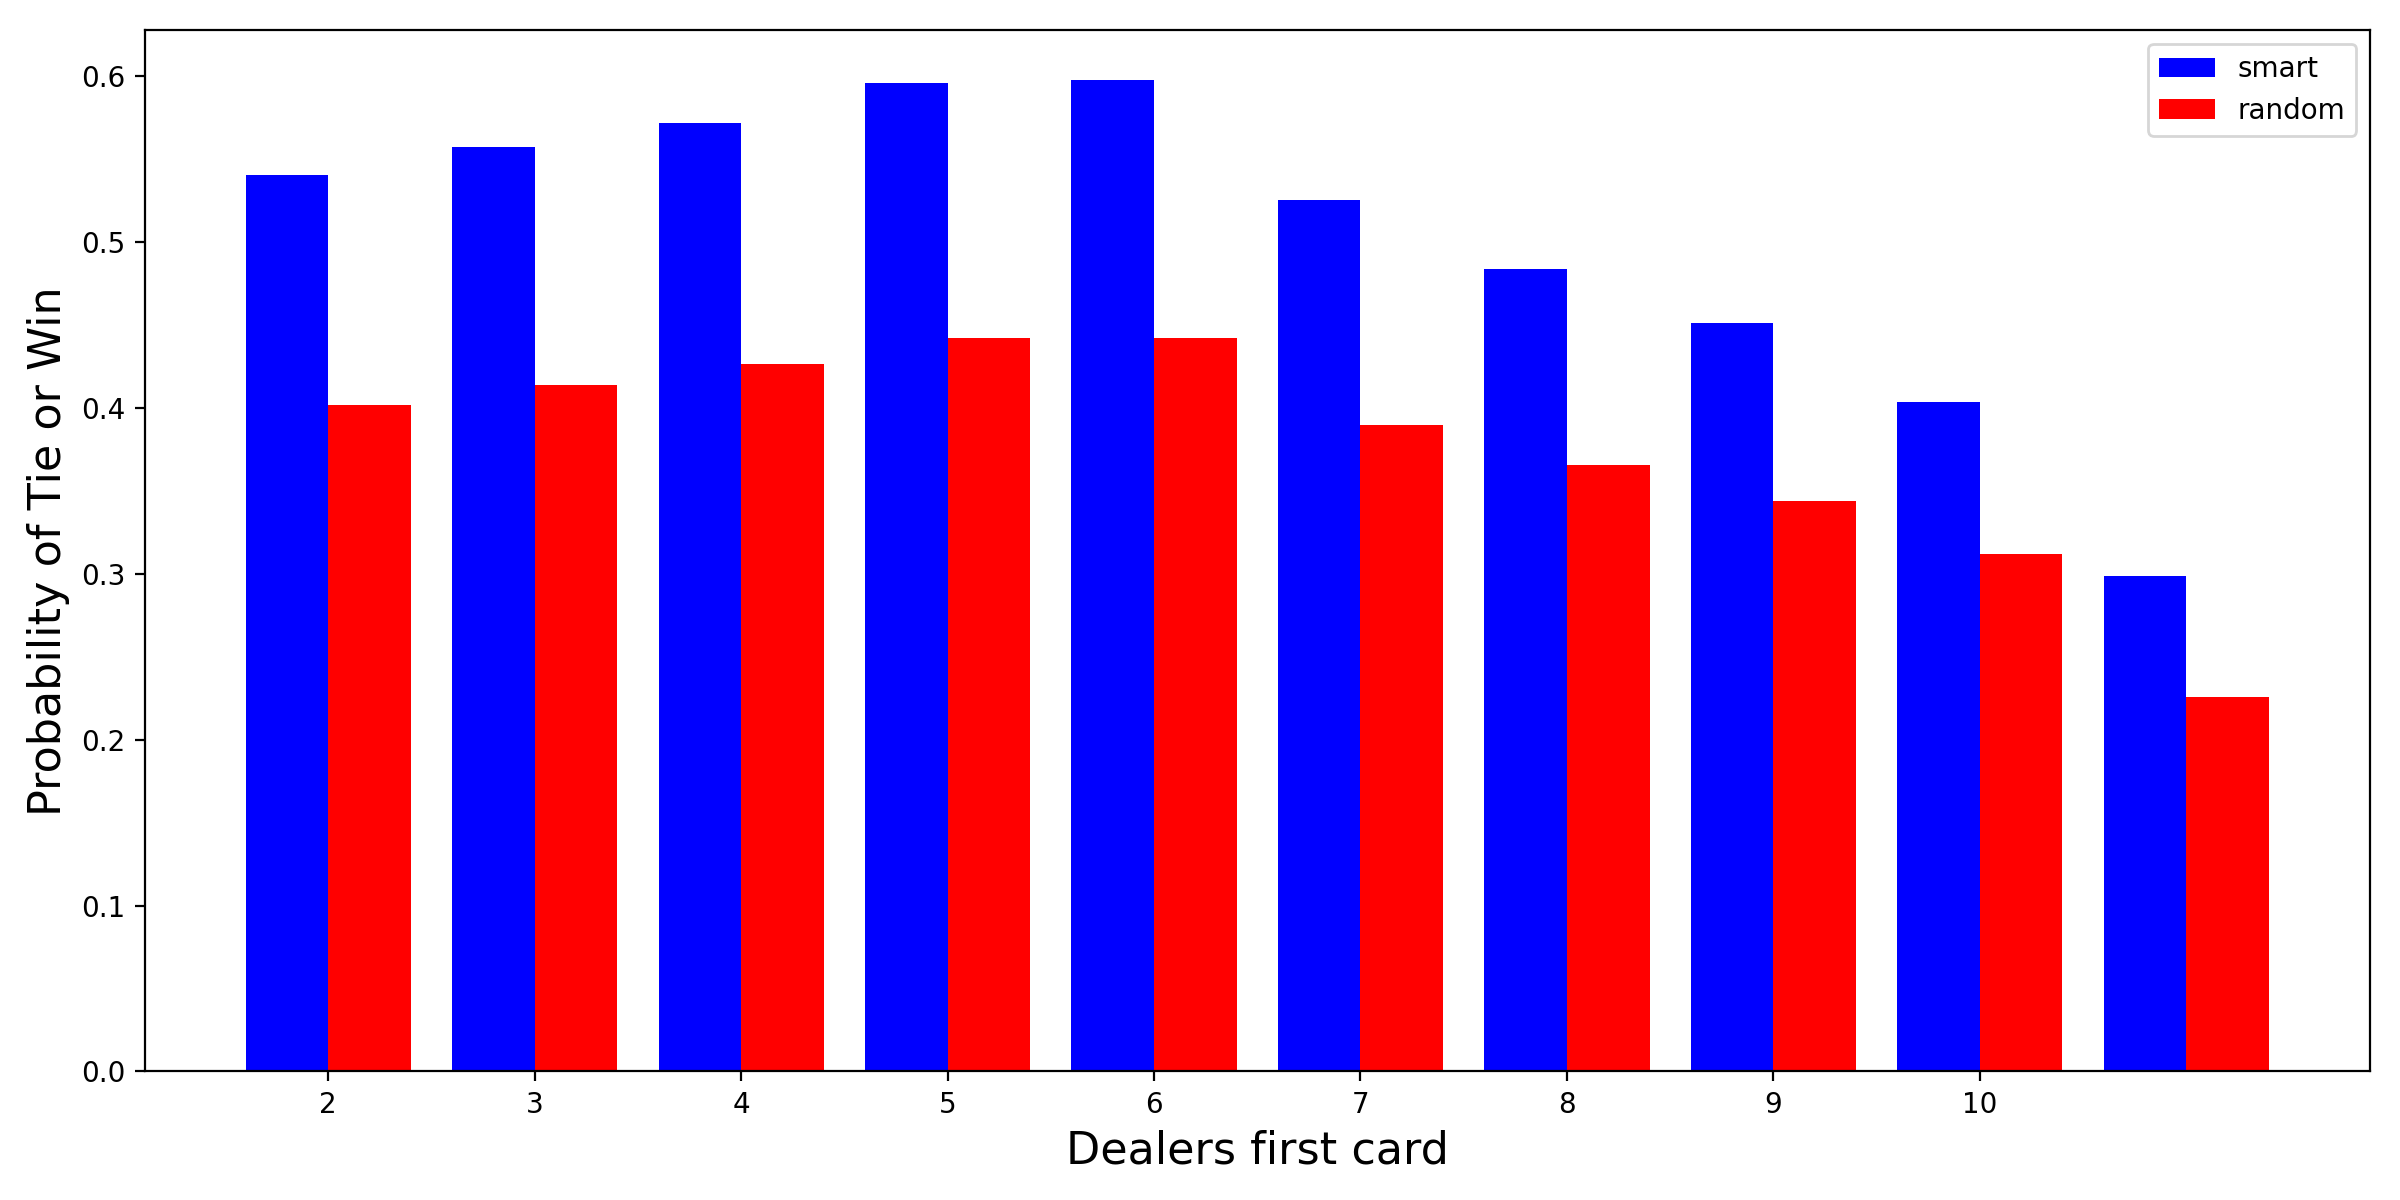
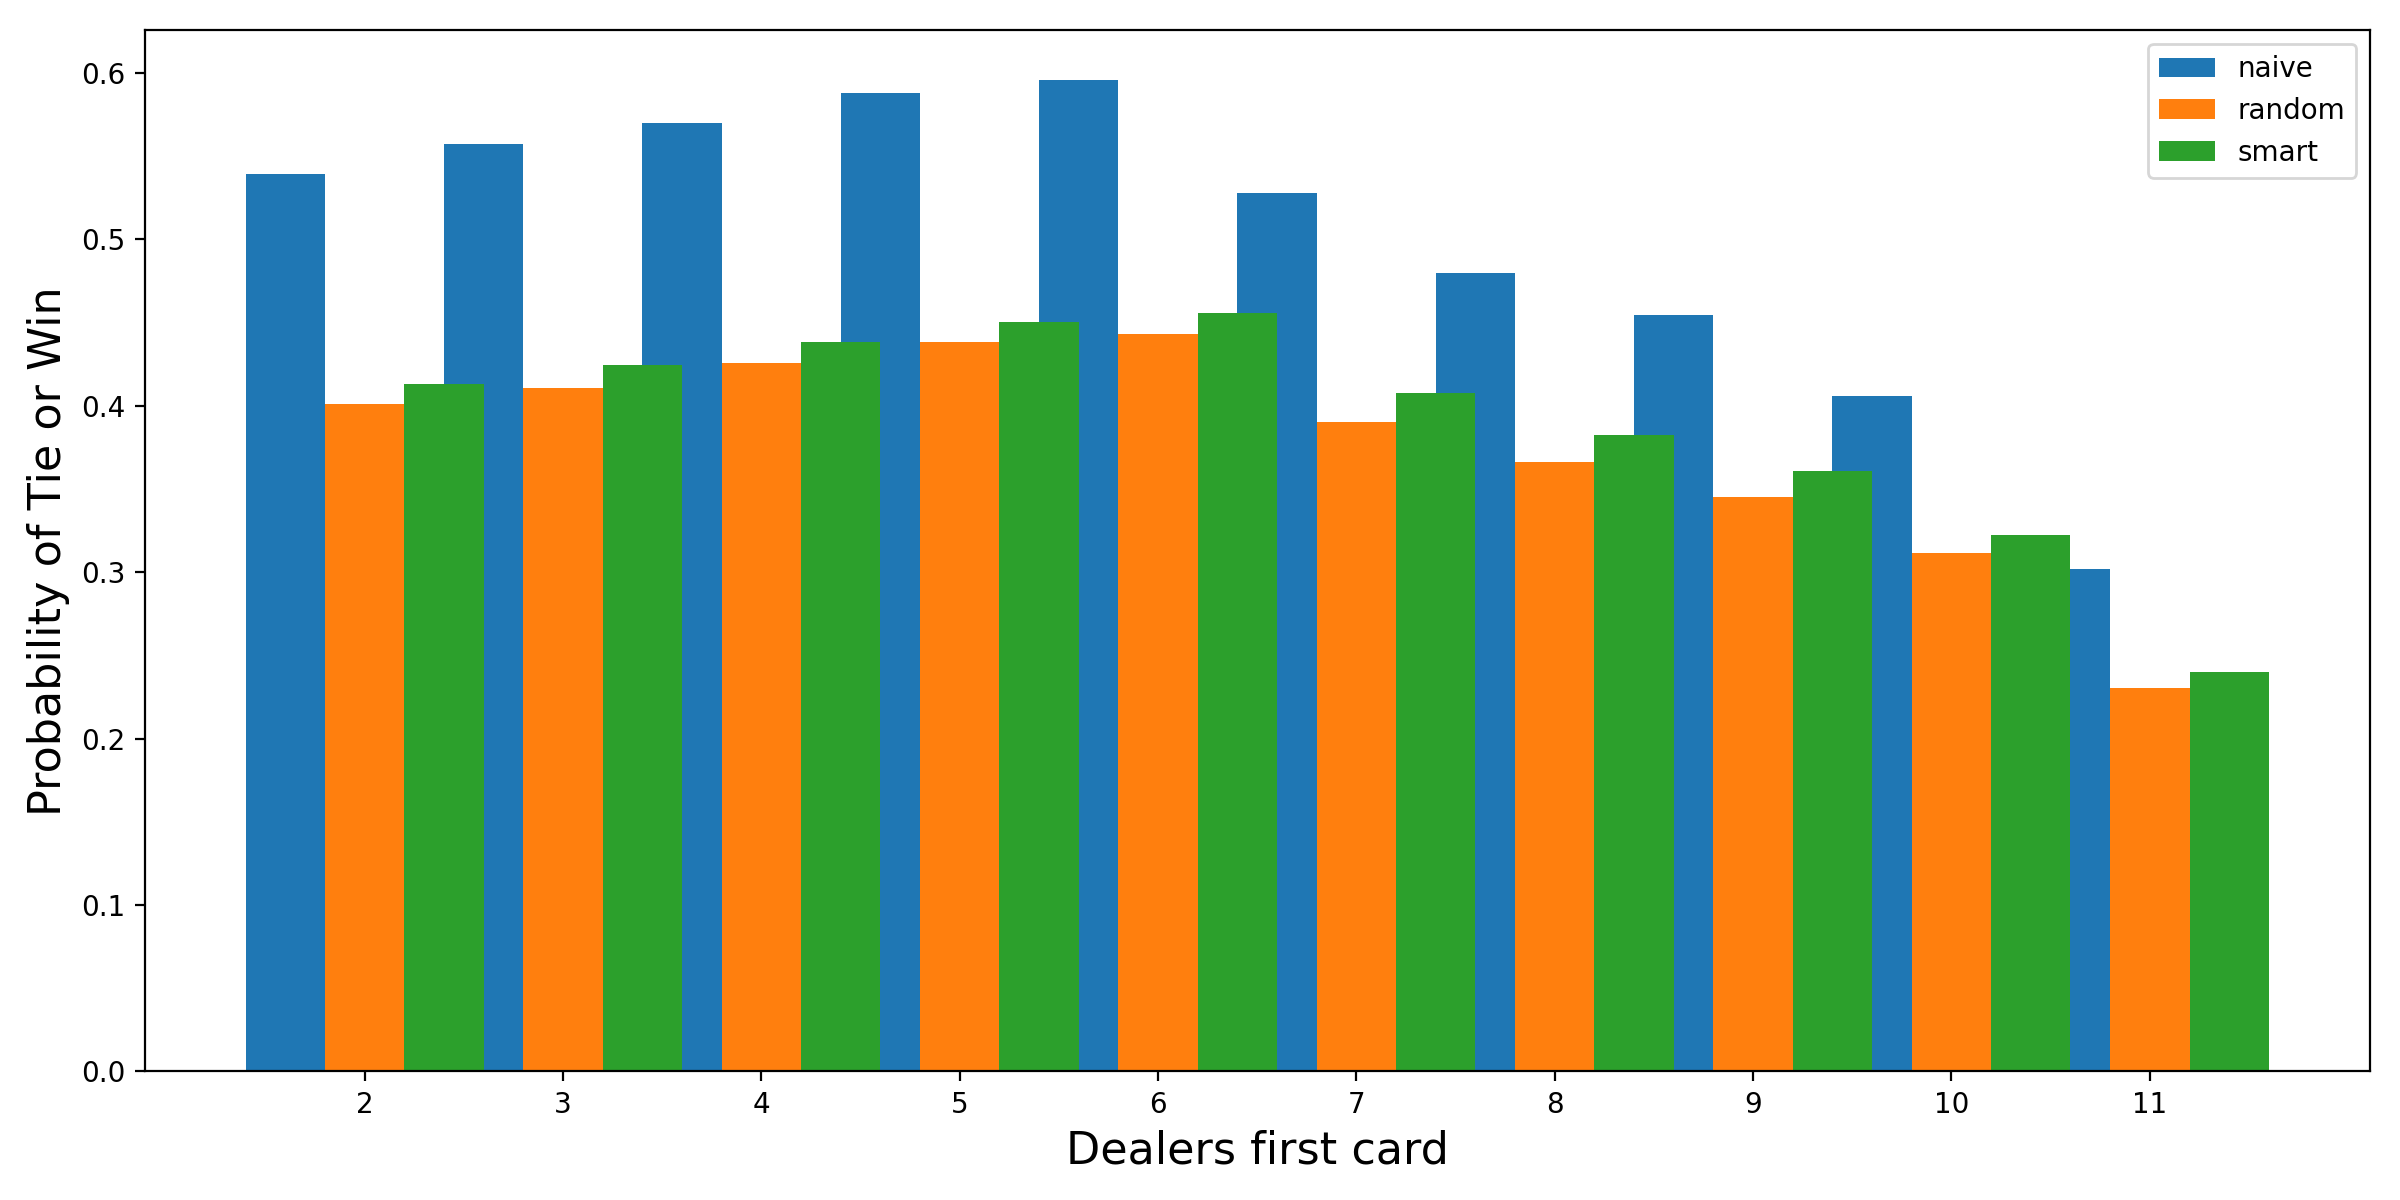
nn is performing well but results are wrong

diff --git a/main.py b/main.py
@@ -2,7 +2,6 @@
 from Game import *
 from Simulation import *
 from Model import *
-import numpy
 import pandas as pd
 import time as t
 
@@ -10,37 +9,43 @@ import time as t
 def main(stacks):
     start = t.time()
     models = []
-    # creating a naive simulation
-    random_simulation = Simulation(stacks, "random")
-    # creating a random simulation
-    # random_simulation = Simulation(stacks, "random")
-    # simulating
-    random_simulation.play()
-    # random_simulation.play()
-    # outcome statistics
-    # random_simulation.evaluate()
-    random_simulation.evaluate()
-    # modelizing data frames
-    random_simulation.modelisation()
-    # random_simulation.modelisation()
-    models.append([random_simulation.df_model, f"{random_simulation.type}"])
-    # random_simulation.model_comparison(models)
-    
-    # training model    
-    random_simulation.train()
-    random_simulation.roc_eval()
+    for mode in ["naive", "random"]:
+        # creating a naive simulation
+        simulation = Simulation(stacks, mode, 11)
+        # creating a random simulation
+        # simulation = Simulation(stacks, "random")
+        # simulating
+        simulation.play()
+        # simulation.play()
+        # outcome statistics
+        # simulation.evaluate()
+        simulation.evaluate()
+        # modelizing data frames
+        simulation.modelisation()
+        simulation.export_headers()
+        # simulation.modelisation()
+        models.append([simulation.df_model, f"{simulation.type}"])
+        # simulation.model_comparison(models)
+        
+    # # training model    
+    simulation.train()
+    simulation.roc_eval()
     # # letting play the nn
     # print("Changing type...")
-    random_simulation.type = "smart"
-    smart_simulation = random_simulation
+    simulation.type = "smart"
+    smart_simulation = simulation
+    # reset counter and stacks
+    simulation.stacks = 10000
+    simulation.games_played = 0
     smart_simulation.play()
     smart_simulation.evaluate()
     smart_simulation.modelisation()
     smart_simulation.export_headers()
-    # models.append([smart_simulation.df_model, f"{smart_simulation.type}"])
+    models.append([smart_simulation.df_model, f"{smart_simulation.type}"])
+    simulation.model_comparison(models)
     # outcome statistics
     # naive_simulation.evaluate()
-    # random_simulation.evaluate()
+    # simulation.evaluate()
 
     end = t.time()
     print("Time elapsed: " + str(round(end - start, 2)) + " seconds")

diff --git a/Simulation.py b/Simulation.py
@@ -159,7 +159,7 @@ class Simulation:
     
 
     def modelisation(self):
-        print("modelisating...")
+        print("modeling...")
         # defining our data model attributes for modelisationisation
         
         # dataframe object (table)
@@ -343,7 +343,7 @@ class Simulation:
         plt.xticks([i for i in range(4, 21)]) # sets the steps between each bar
         plt.legend()
         plt.tight_layout()
-        # plt.savefig(fname=f'{save_to}/{self.type}_player_hand_comparison', dpi=200)
+        plt.savefig(fname=f'{save_to}/{self.type}_player_hand_comparison', dpi=200)
         
         # for the dealers first card 
         _, self.axis = collect("dealer_card_val", True) # true for collecting last probability result (for 21)
@@ -354,7 +354,7 @@ class Simulation:
         plt.xticks([i for i in range(2, 12)]) # sets the steps between each bar
         plt.legend()
         plt.tight_layout()
-        # plt.savefig(fname=f'{save_to}/{self.type}_dealer_card_comparison', dpi=200)
+        plt.savefig(fname=f'{save_to}/{self.type}_dealer_card_comparison', dpi=200)
 
         # creating a df for a table with the win/loss rates fot the different sim types 
         self.player_sum_table, _ = collect("player_total_sums")
